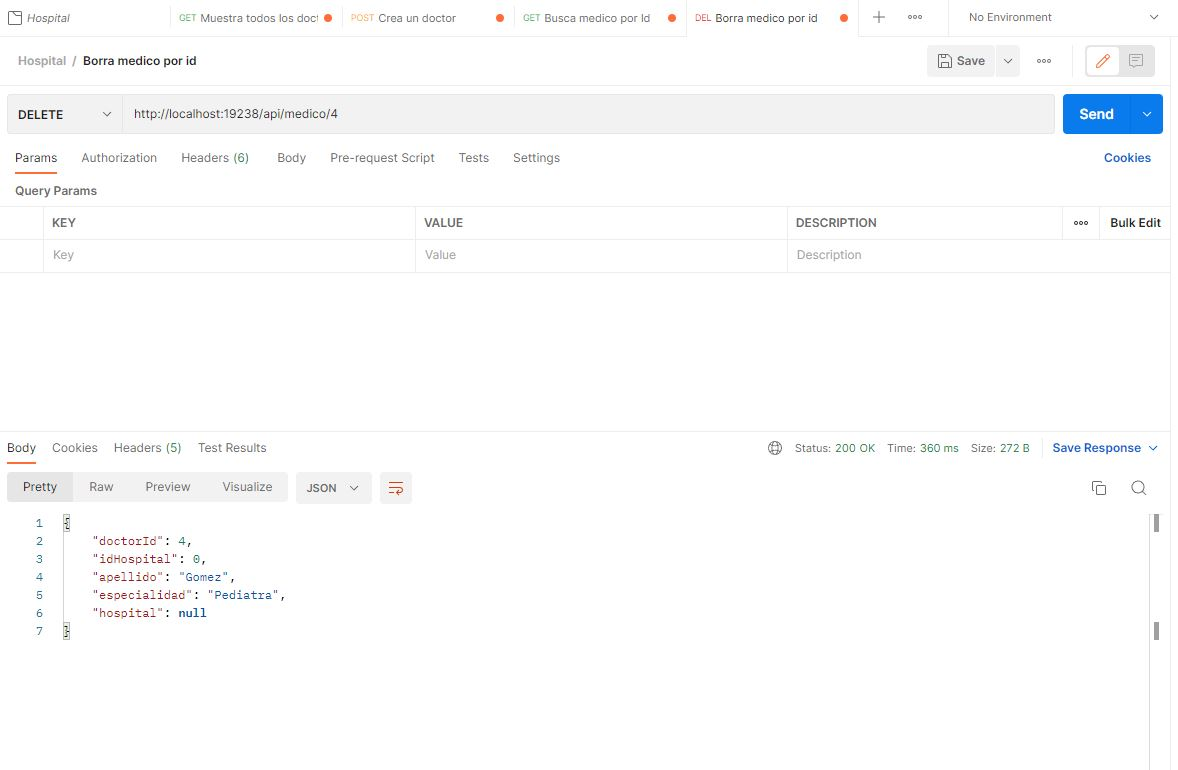
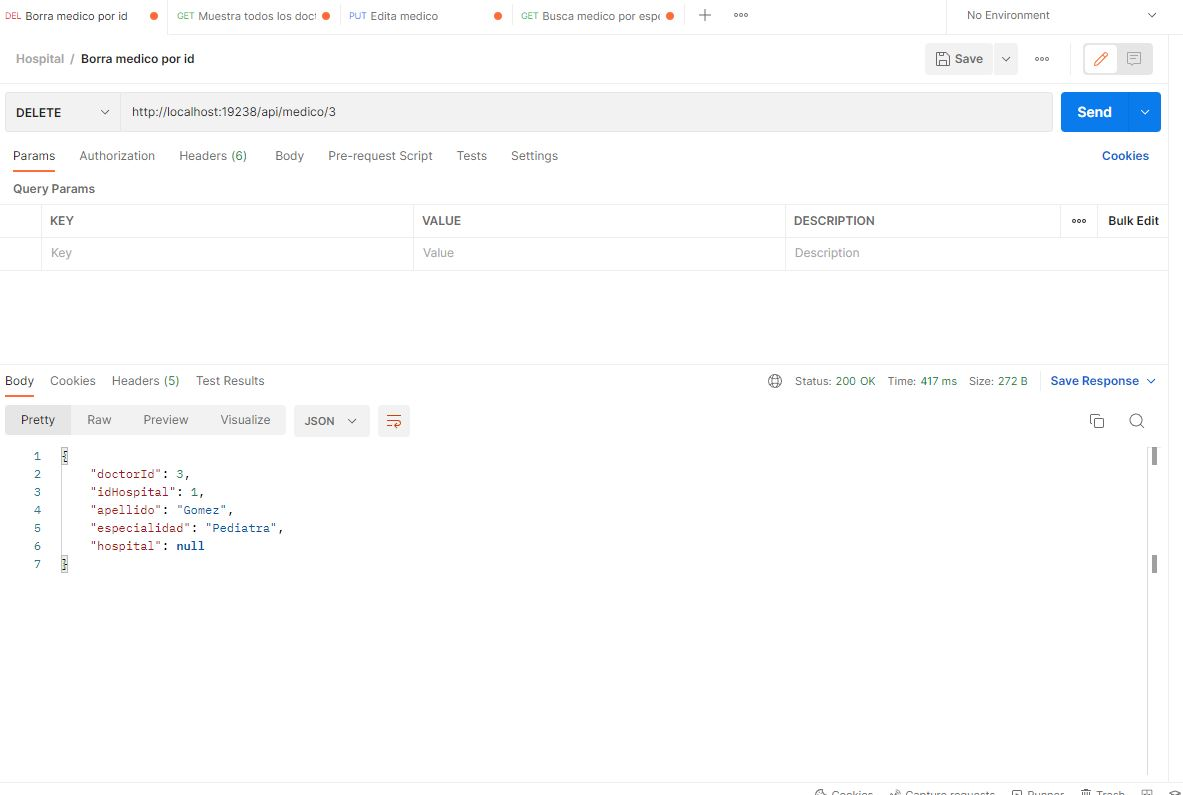
Practica final-Finalizada

diff --git a/WebApiFinalPalazzoFlorencia/Controllers/MedicoController.cs b/WebApiFinalPalazzoFlorencia/Controllers/MedicoController.cs
@@ -5,6 +5,7 @@ using System.Collections.Generic;
 using WebApiFinalPalazzoFlorencia.Data;
 using WebApiFinalPalazzoFlorencia.Models;
 using System.Linq;
+using Microsoft.EntityFrameworkCore;
 
 namespace WebApiFinalPalazzoFlorencia.Controllers
 {
@@ -18,6 +19,7 @@ namespace WebApiFinalPalazzoFlorencia.Controllers
             _context = context;
         }
 
+
         [HttpGet]
         public IEnumerable<Doctor> Get()
         {
@@ -26,7 +28,7 @@ namespace WebApiFinalPalazzoFlorencia.Controllers
         }
 
         [HttpGet("{id}")]
-        public Doctor Get( int id)
+        public Doctor Get(int id)
         {
             Doctor doctor = (from d in _context.Doctores where id == d.DoctorId select d).SingleOrDefault();
             return doctor;
@@ -52,6 +54,30 @@ namespace WebApiFinalPalazzoFlorencia.Controllers
             _context.SaveChanges();
             return doctorDelete;
         }
+
+        //Segunda Parte
+
+        [HttpPut("{id}")]
+        public ActionResult Put(int id, Doctor doctor)
+        {
+            if (id == doctor.DoctorId)
+            {
+                NotFound();
+            }
+            _context.Entry(doctor).State= EntityState.Modified;
+            _context.SaveChanges();
+
+            return Ok();
+        }
+
+        [HttpGet("especialidad/{especialidad}")]
+        public List<Doctor> Get(string especialidad)
+        {
+            List<Doctor> espDoctor = (from e in _context.Doctores where e.Especialidad == especialidad select e).ToList();
+            return espDoctor;
+        }
+
+        
 
     }
 }

diff --git a/WebApiFinalPalazzoFlorencia/Controllers/HospitalController.cs b/WebApiFinalPalazzoFlorencia/Controllers/HospitalController.cs
@@ -1,0 +1,34 @@
+using Microsoft.AspNetCore.Http;
+using Microsoft.AspNetCore.Mvc;
+using WebApiFinalPalazzoFlorencia.Data;
+using System.Linq;
+
+namespace WebApiFinalPalazzoFlorencia.Controllers
+{
+    [Route("api/[controller]")]
+    [ApiController]
+    public class HospitalController : ControllerBase
+    {
+        private readonly DBHospitalContext _context;
+        public HospitalController(DBHospitalContext context)
+        {
+            _context = context;
+        }
+
+        
+        [HttpGet]
+        public dynamic Get()
+        {
+            dynamic hospitales = (from d in _context.Hospitales select new { d.Nombre, d.Telefono, d.NumCama }).ToList();
+            return hospitales;
+        }
+
+
+        [HttpGet("{num_cama}")]
+        public dynamic Get(int num_cama)
+        {
+            dynamic hospitales = (from d in _context.Hospitales where d.NumCama > num_cama select new { d.Nombre, d.Telefono, d.NumCama }).ToList();
+            return hospitales;
+        }
+    }
+}
